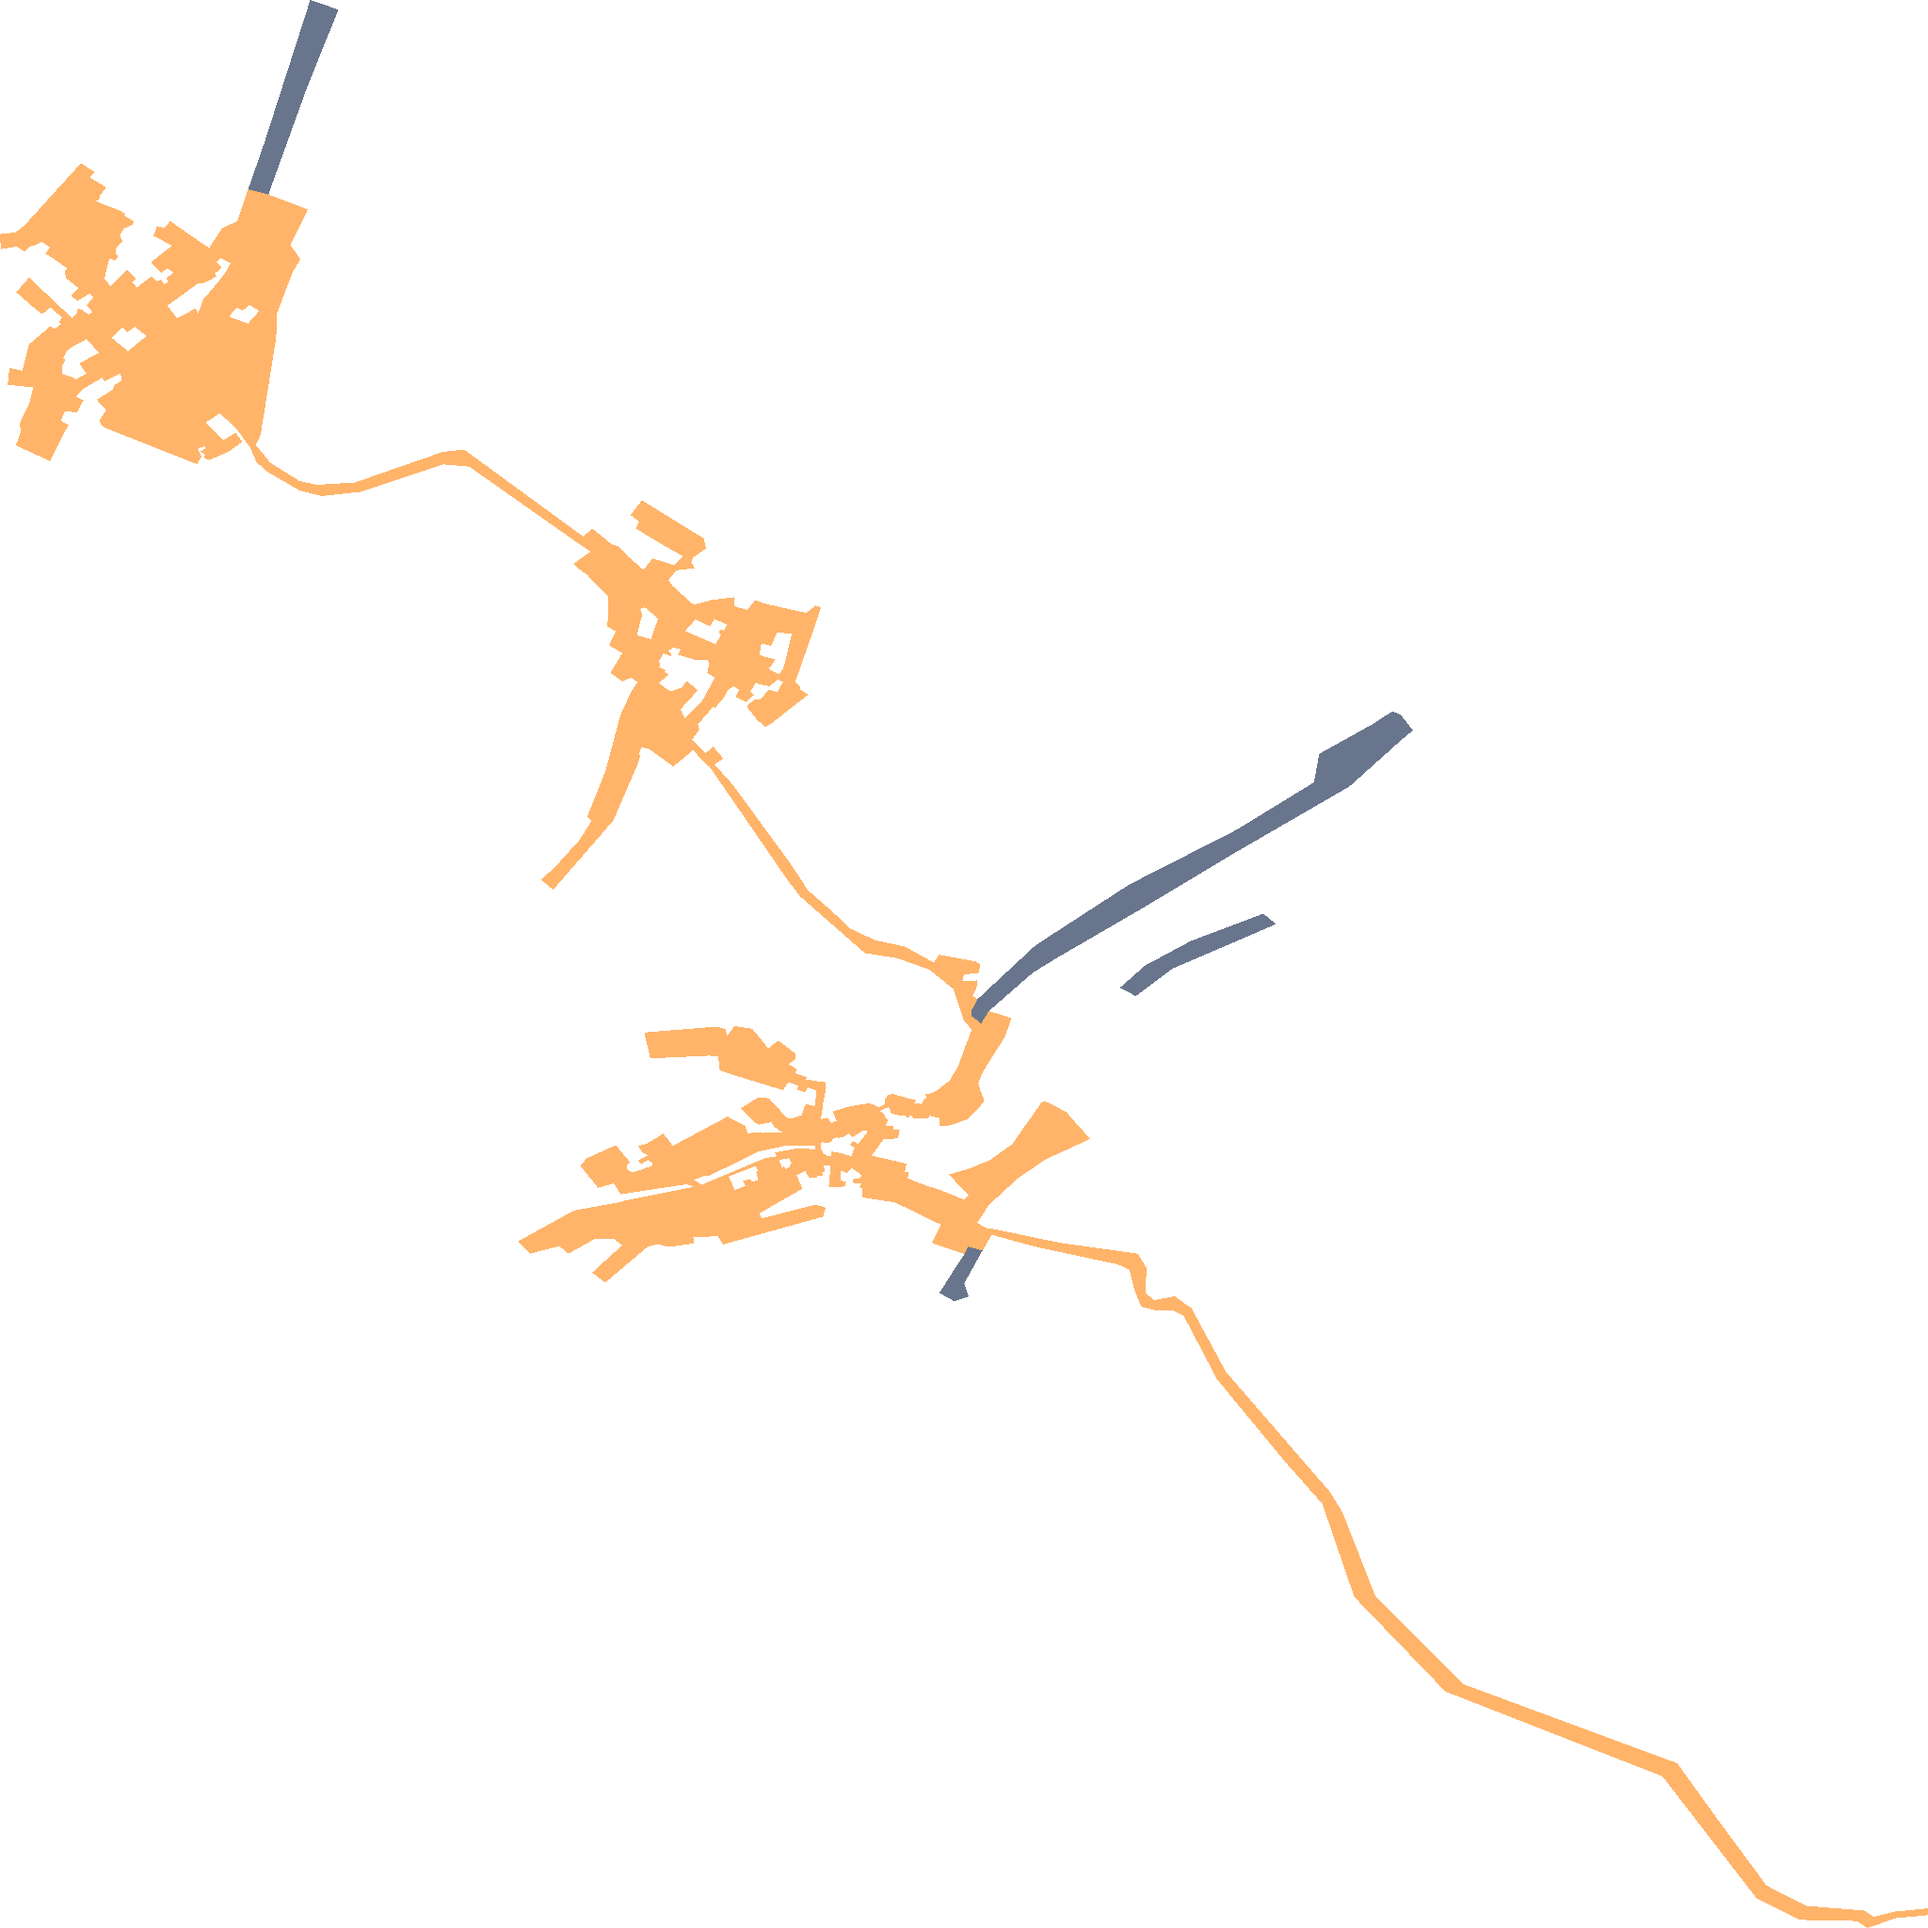
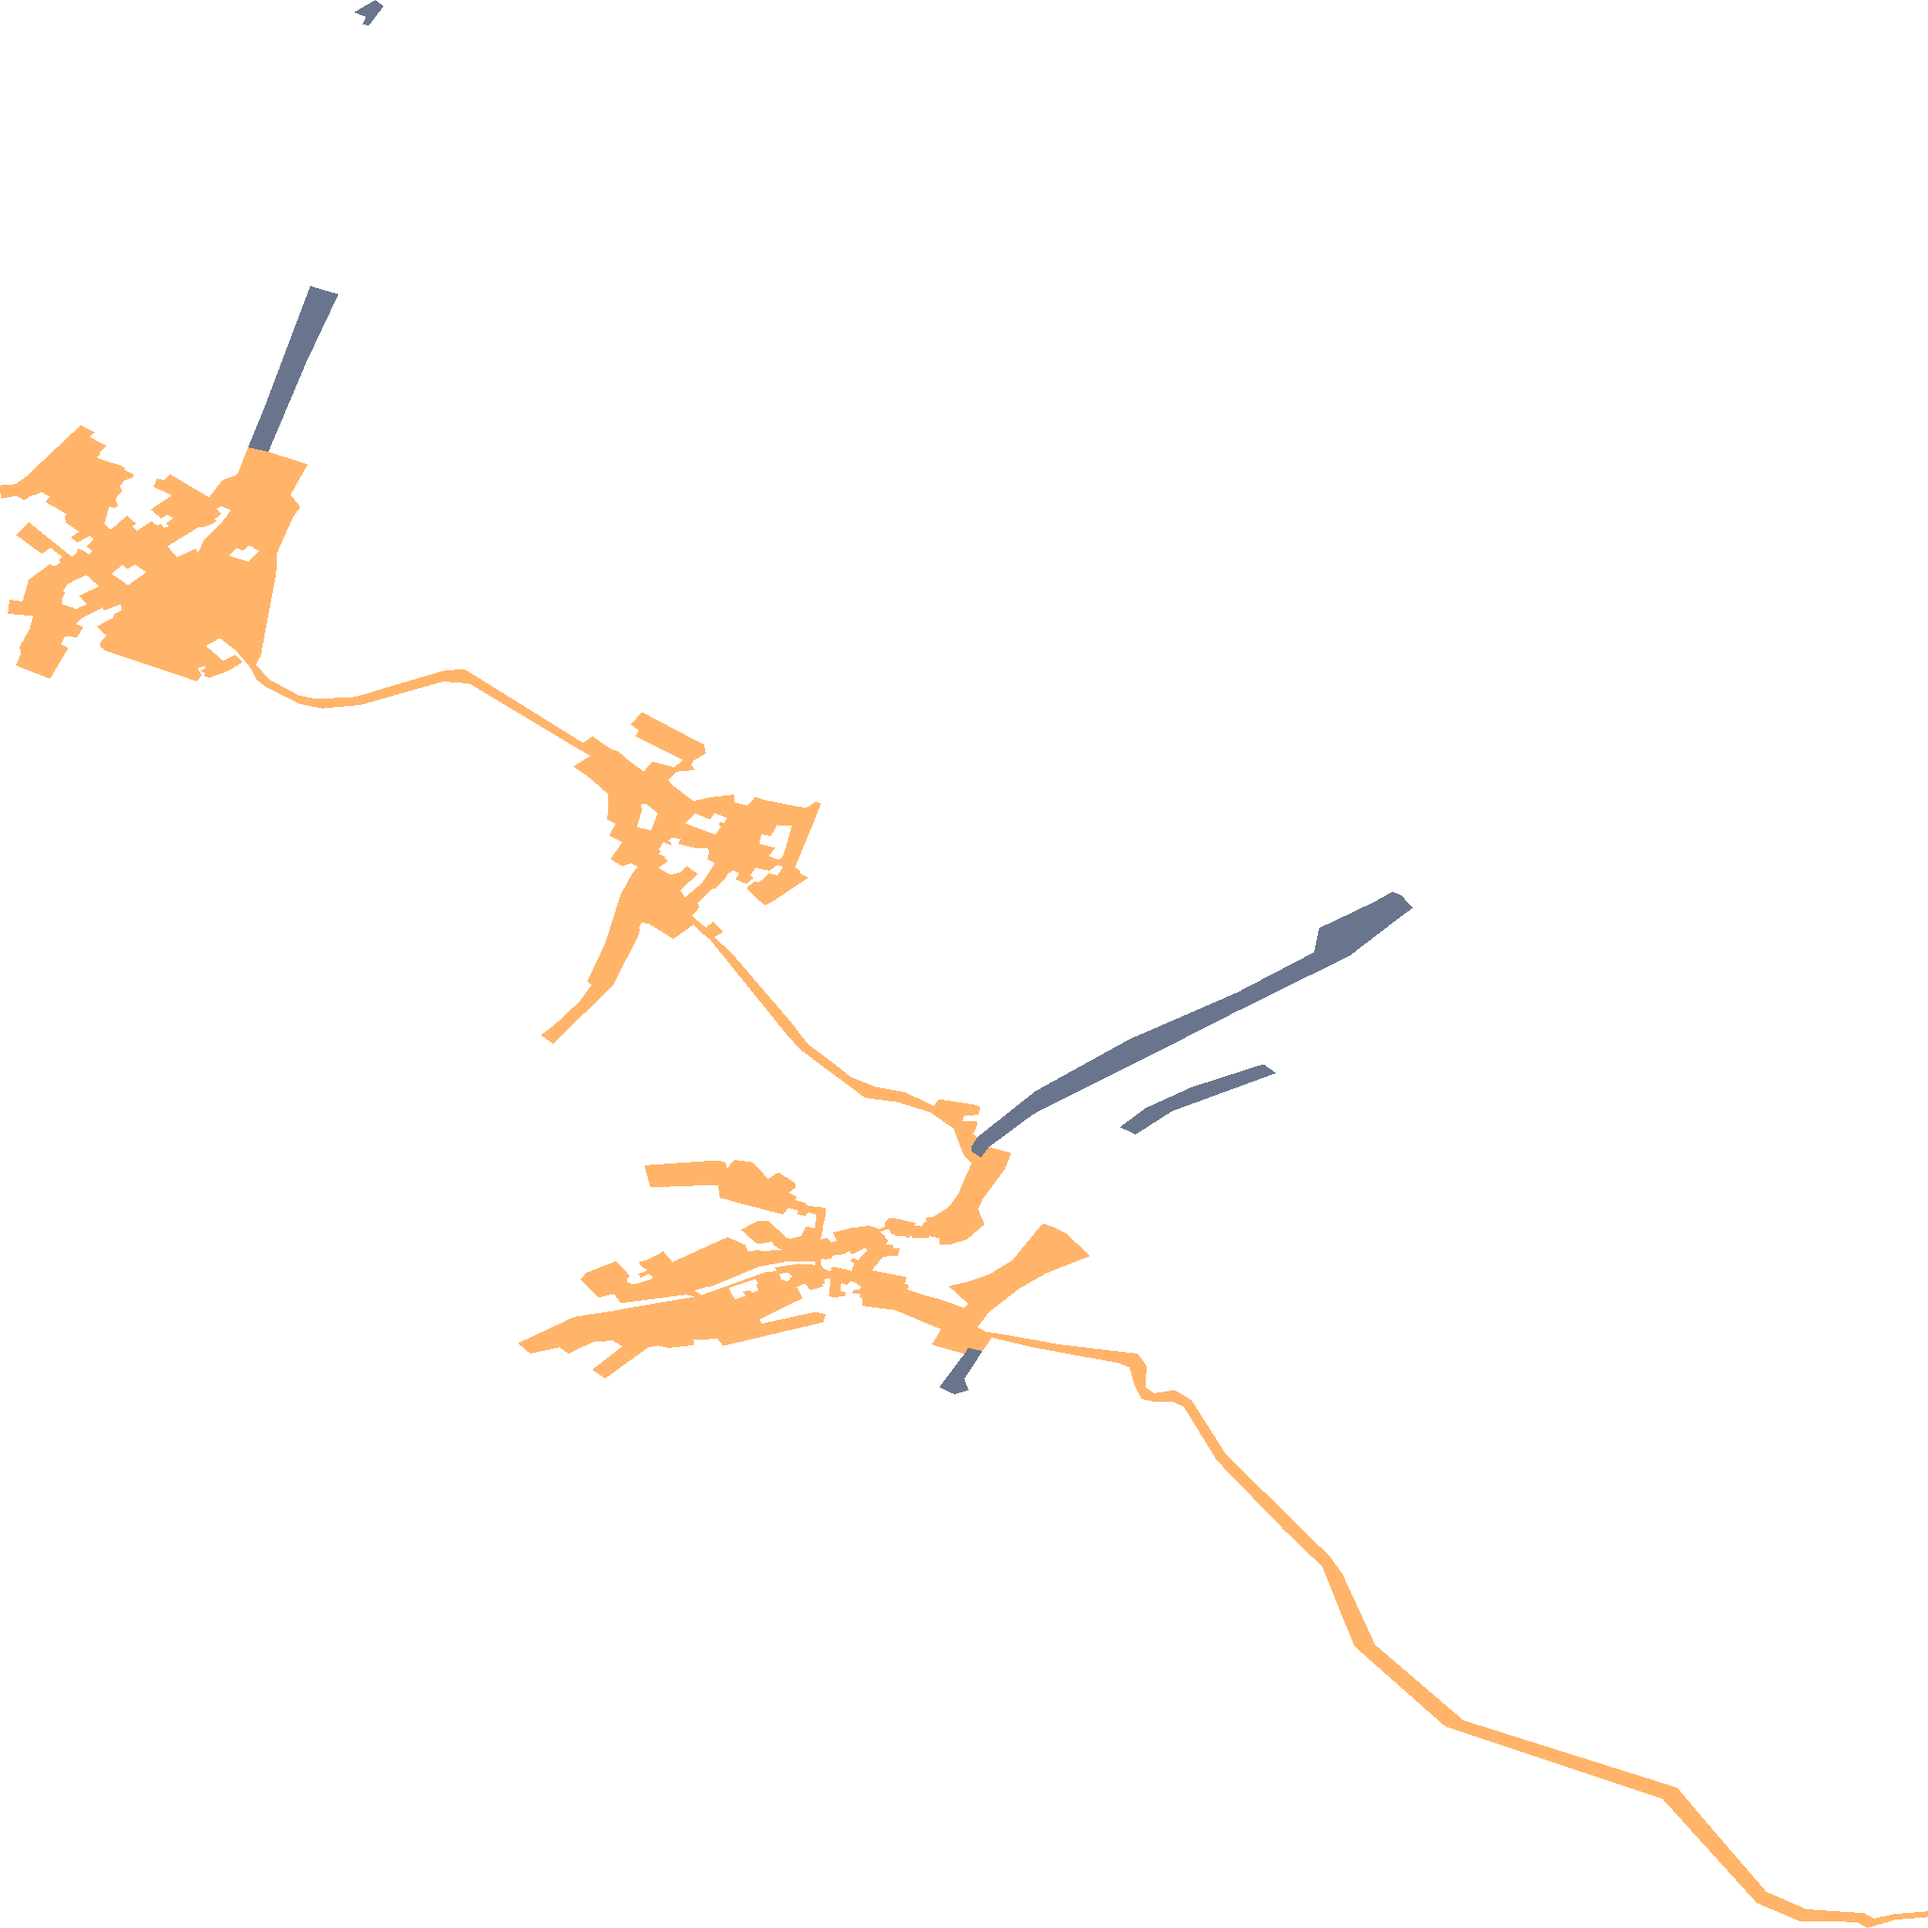
Karte p_24

diff --git a/p_24.html b/p_24.html
@@ -115,7 +115,7 @@
         <div><span style="display:inline-block;width:20px; height:10px; background:#FFC17D; margin-right:5px;"></span>Ausbauphase 3: Gefördertes Ausbaugebiet </div>
     </div>
     <script>
-    const bounds = [[50.383138101, 9.130044372], [50.424708222, 9.18685401]];
+    const bounds = [[50.383138101, 9.130044372], [50.431951415, 9.18685401]];
     const map = L.map('map', {zoomControl: false});
       map.fitBounds(bounds, {padding: [100, 100]});
        const maptiler = L.tileLayer('https://api.maptiler.com/maps/basic/{z}/{x}/{y}.png?key=hP74ooTG3ciBab5RShCg',
